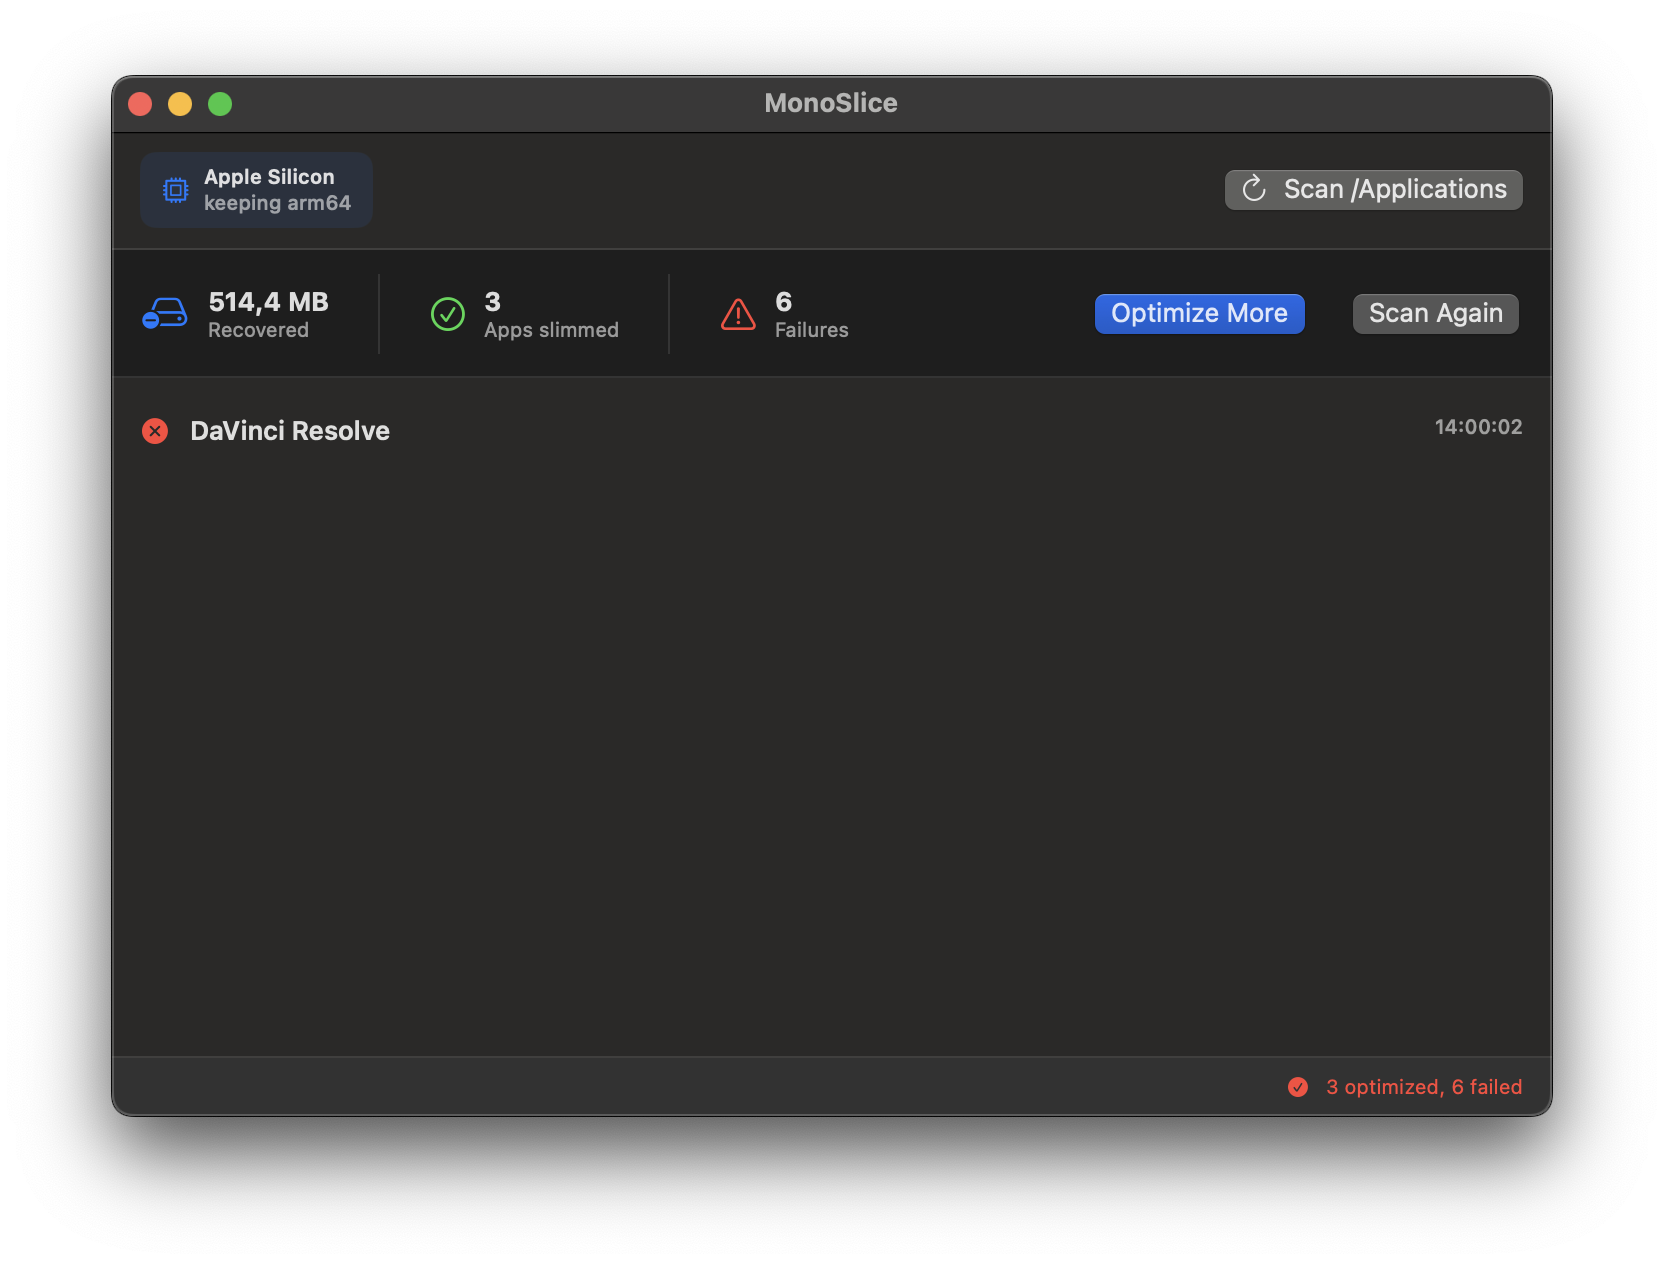
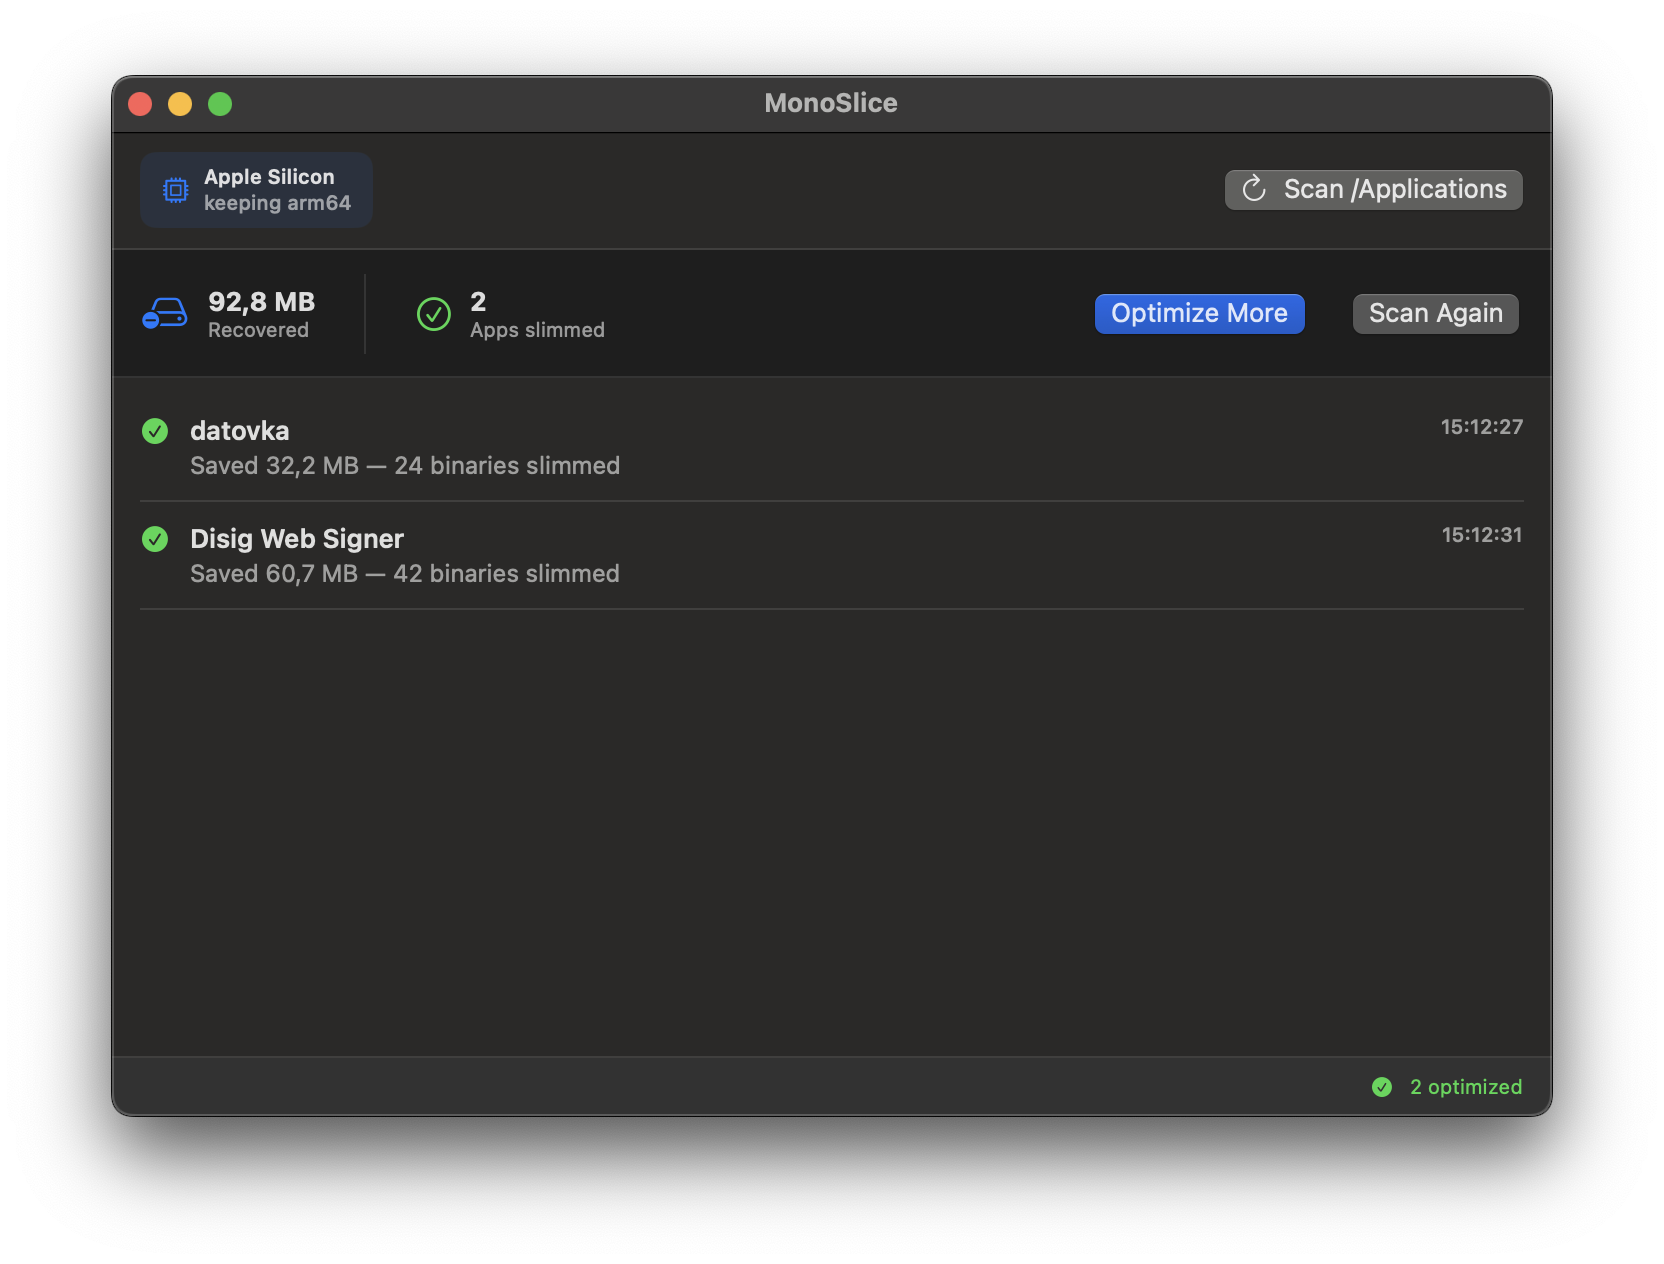
Replace summary screenshot and show it on the docs index

diff --git a/docs/index.md b/docs/index.md
@@ -20,6 +20,10 @@ MonoSlice is **free to use**, available as both a Mac app and a command-line too
 
 ![MonoSlice scan results with potential savings per app](images/scan-results.png)
 
+**See what you recovered** — a summary shows the space saved and how many apps were slimmed.
+
+![MonoSlice summary of optimized apps and recovered space](images/summary.png)
+
 ---
 
 ## Why MonoSlice?
